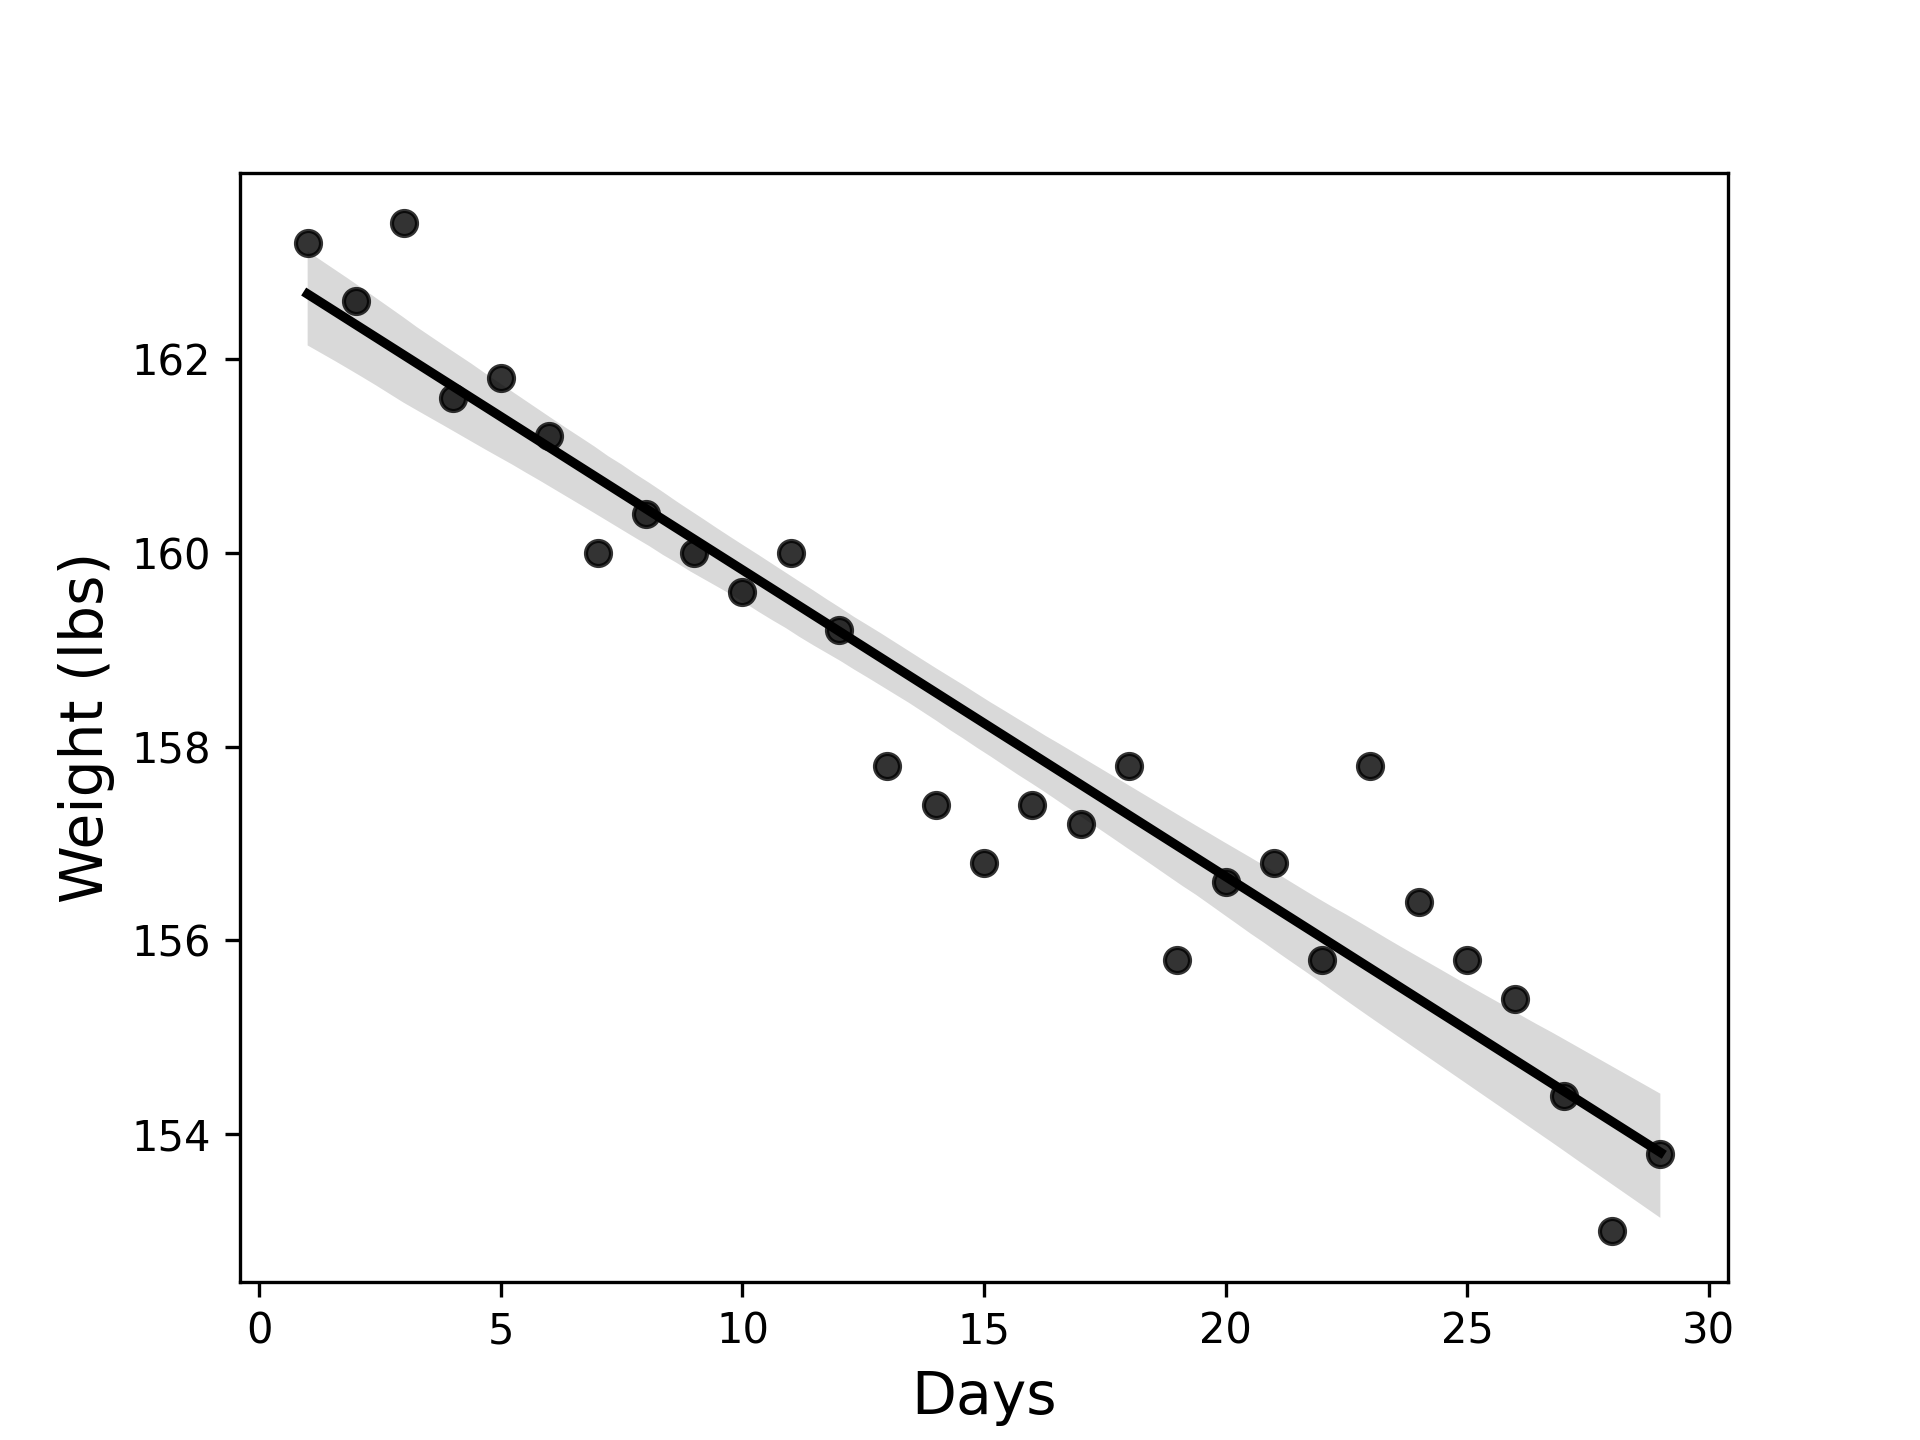
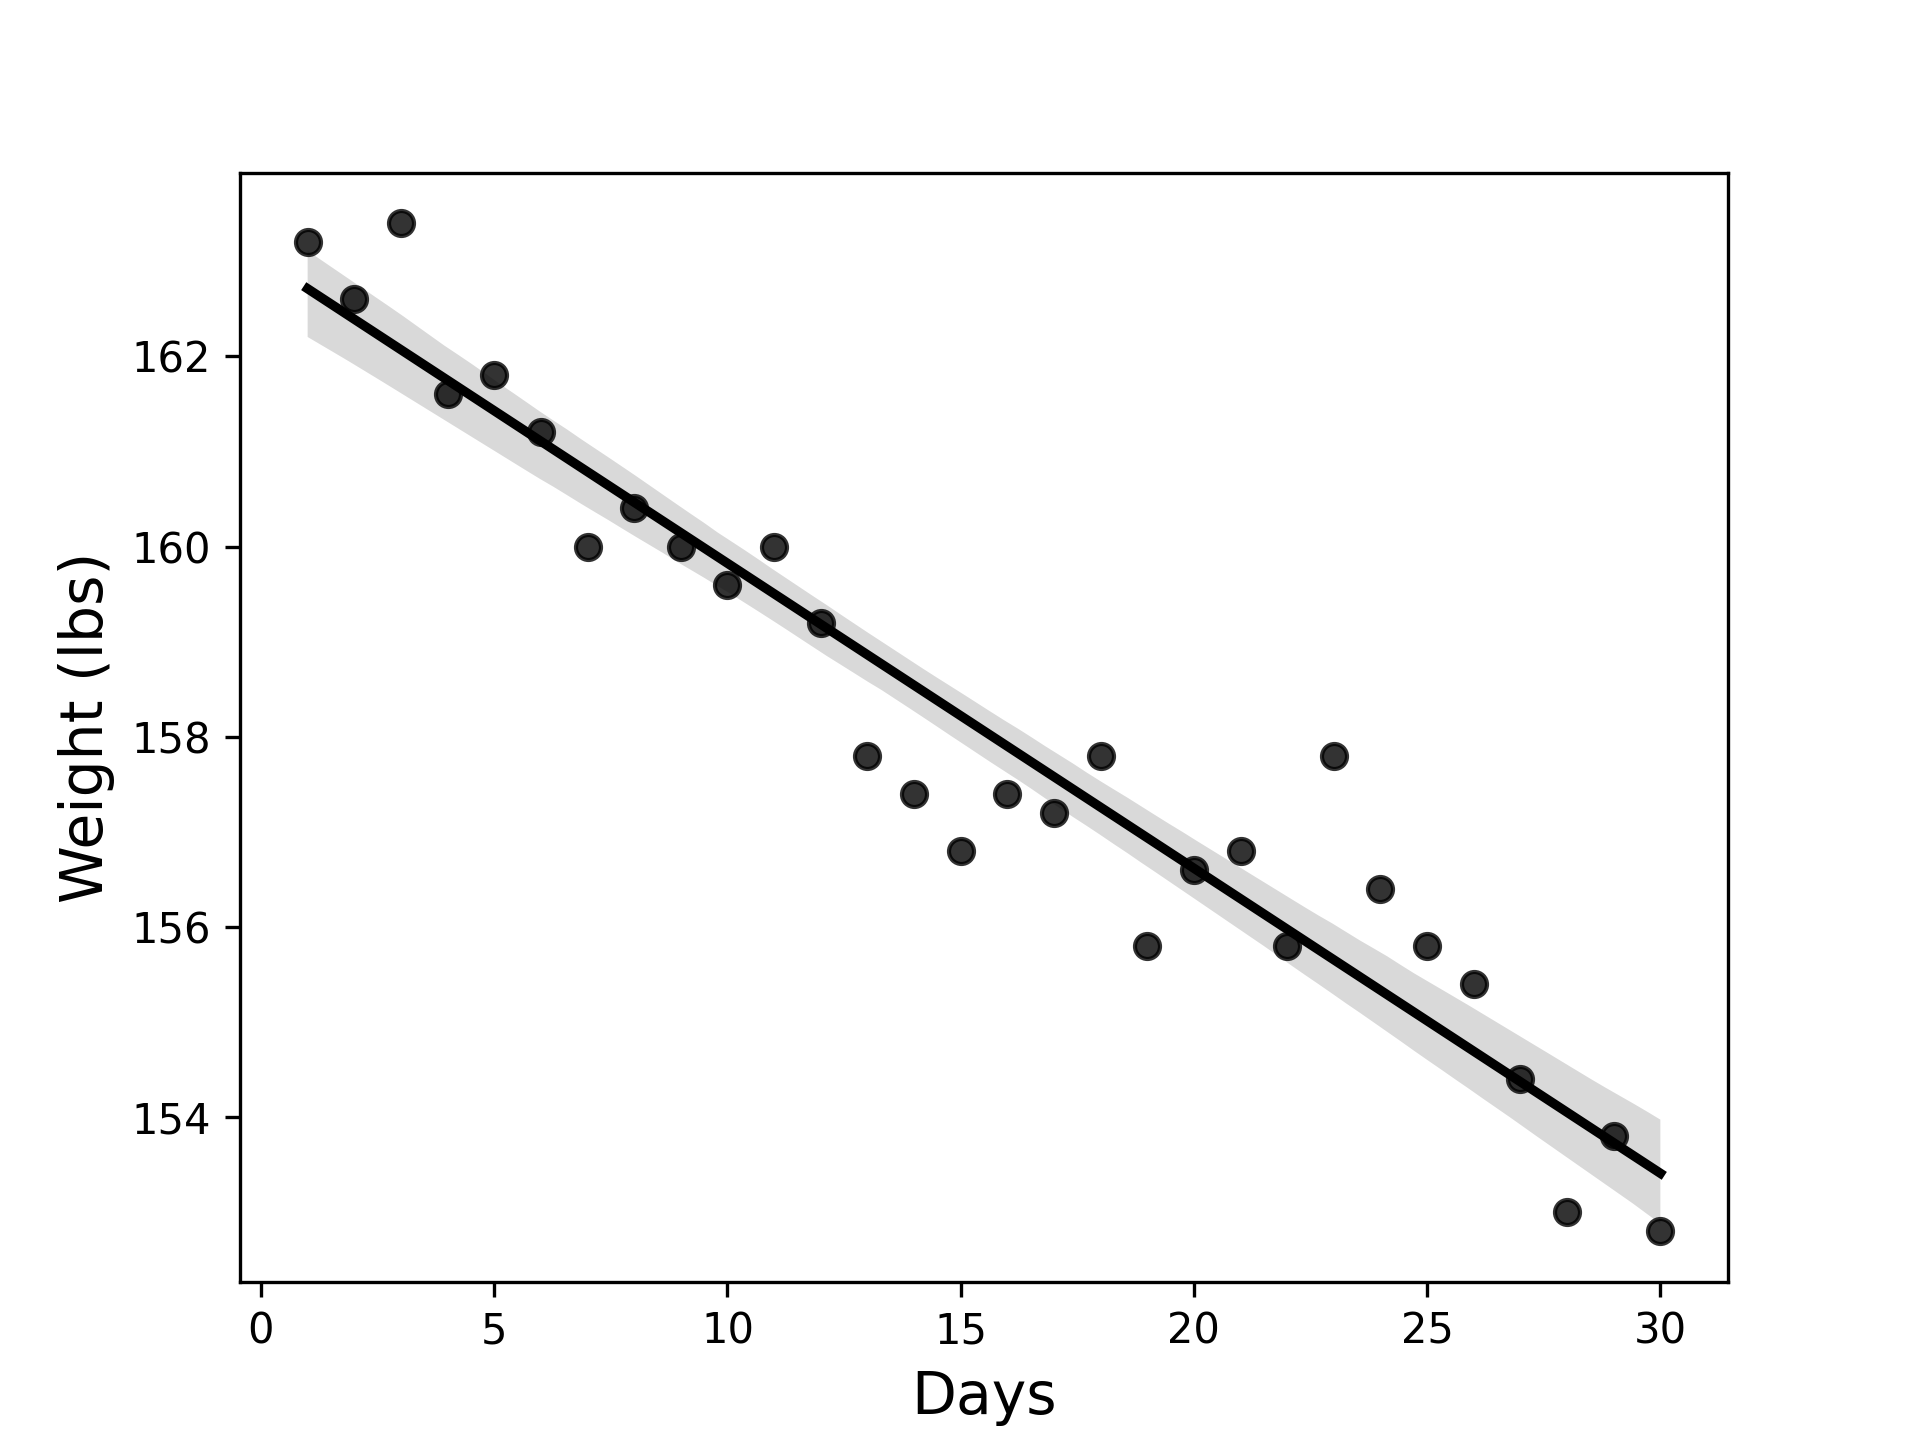
Updated weight.py and weight.png

diff --git a/Weight.py b/Weight.py
@@ -6,9 +6,9 @@ import seaborn as sns
 
 # Creates an array of elapsed days and assigns it to days_elapsed
 days_elapsed = np.array([1, 2, 3 ,4, 5, 6, 7, 8, 9, 10,11,12,13, 14,15,16,17,18,
-                         19, 20,21,22,23,24,25,26,27,28,29]).reshape(-1,1)
+                         19, 20,21,22,23,24,25,26,27,28,29,30]).reshape(-1,1)
 weight = np.array([163.2, 162.6, 163.4, 161.6, 161.8, 161.2, 160.0, 160.4, 160.0, 159.6,160.0,159.2,157.8, 157.4,156.8,157.4,
-                   157.2, 157.8,155.8, 156.6,156.8,155.8,157.8,156.4,155.8,155.4,154.4,153.0,153.8])
+                   157.2, 157.8,155.8, 156.6,156.8,155.8,157.8,156.4,155.8,155.4,154.4,153.0,153.8,152.8])
 
 # Instantiates a LinearRegression model and fits it to the above arrays
 model = sklearn.linear_model.LinearRegression().fit(days_elapsed,weight)
